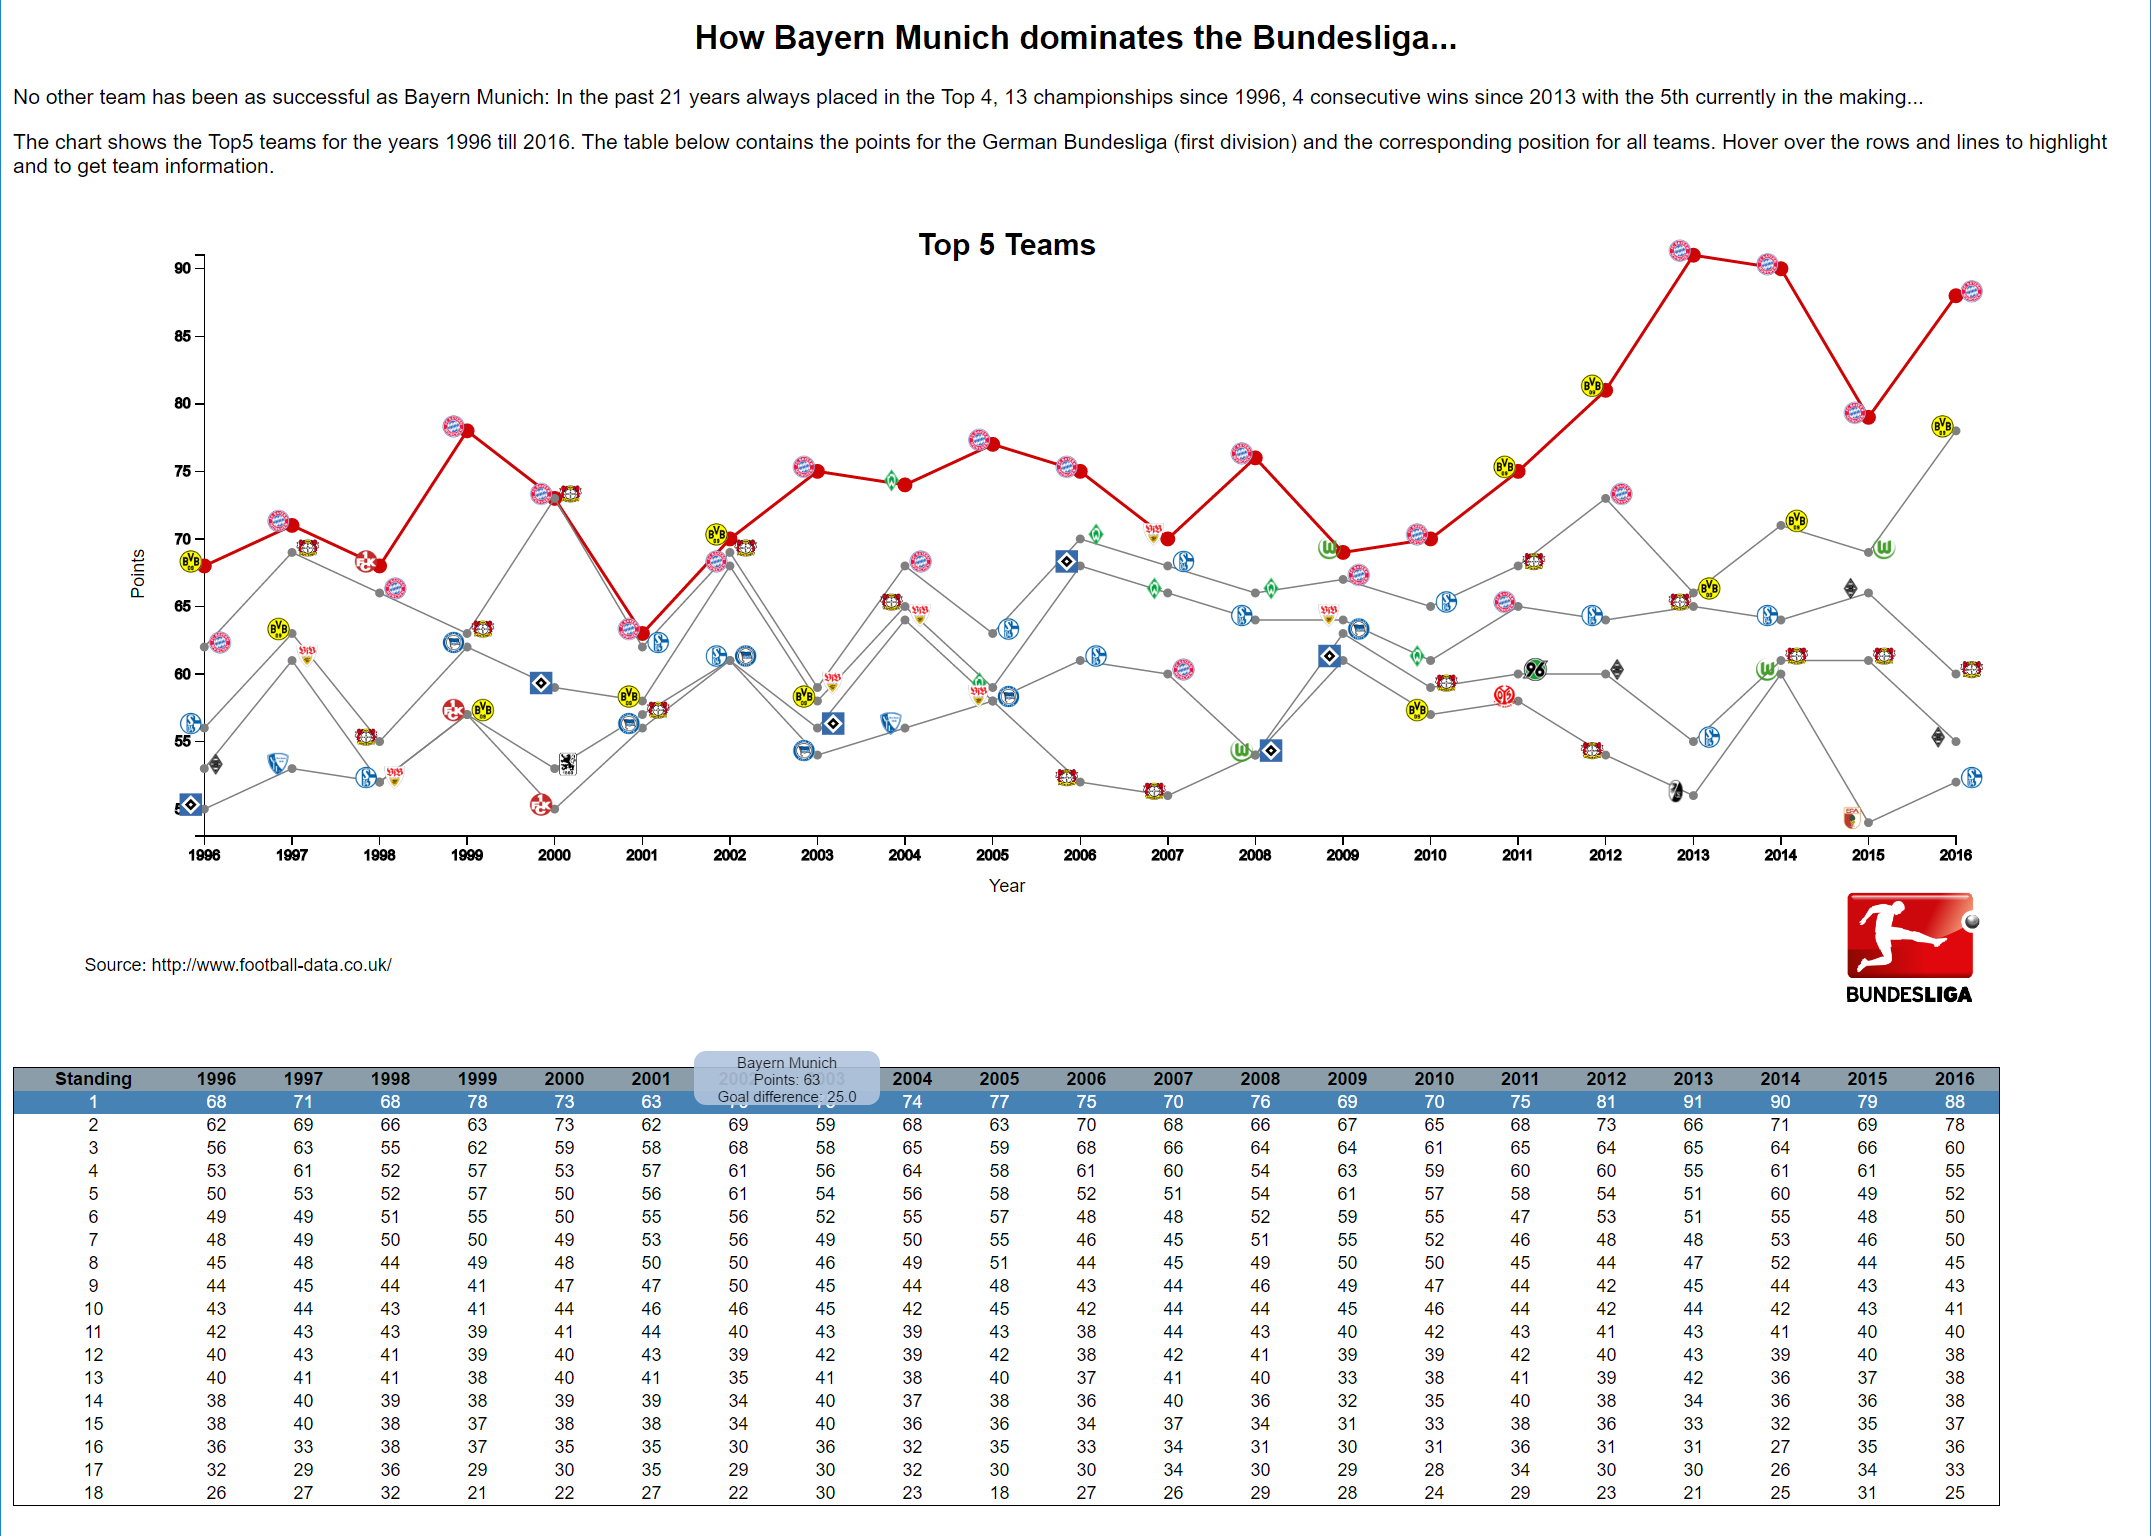
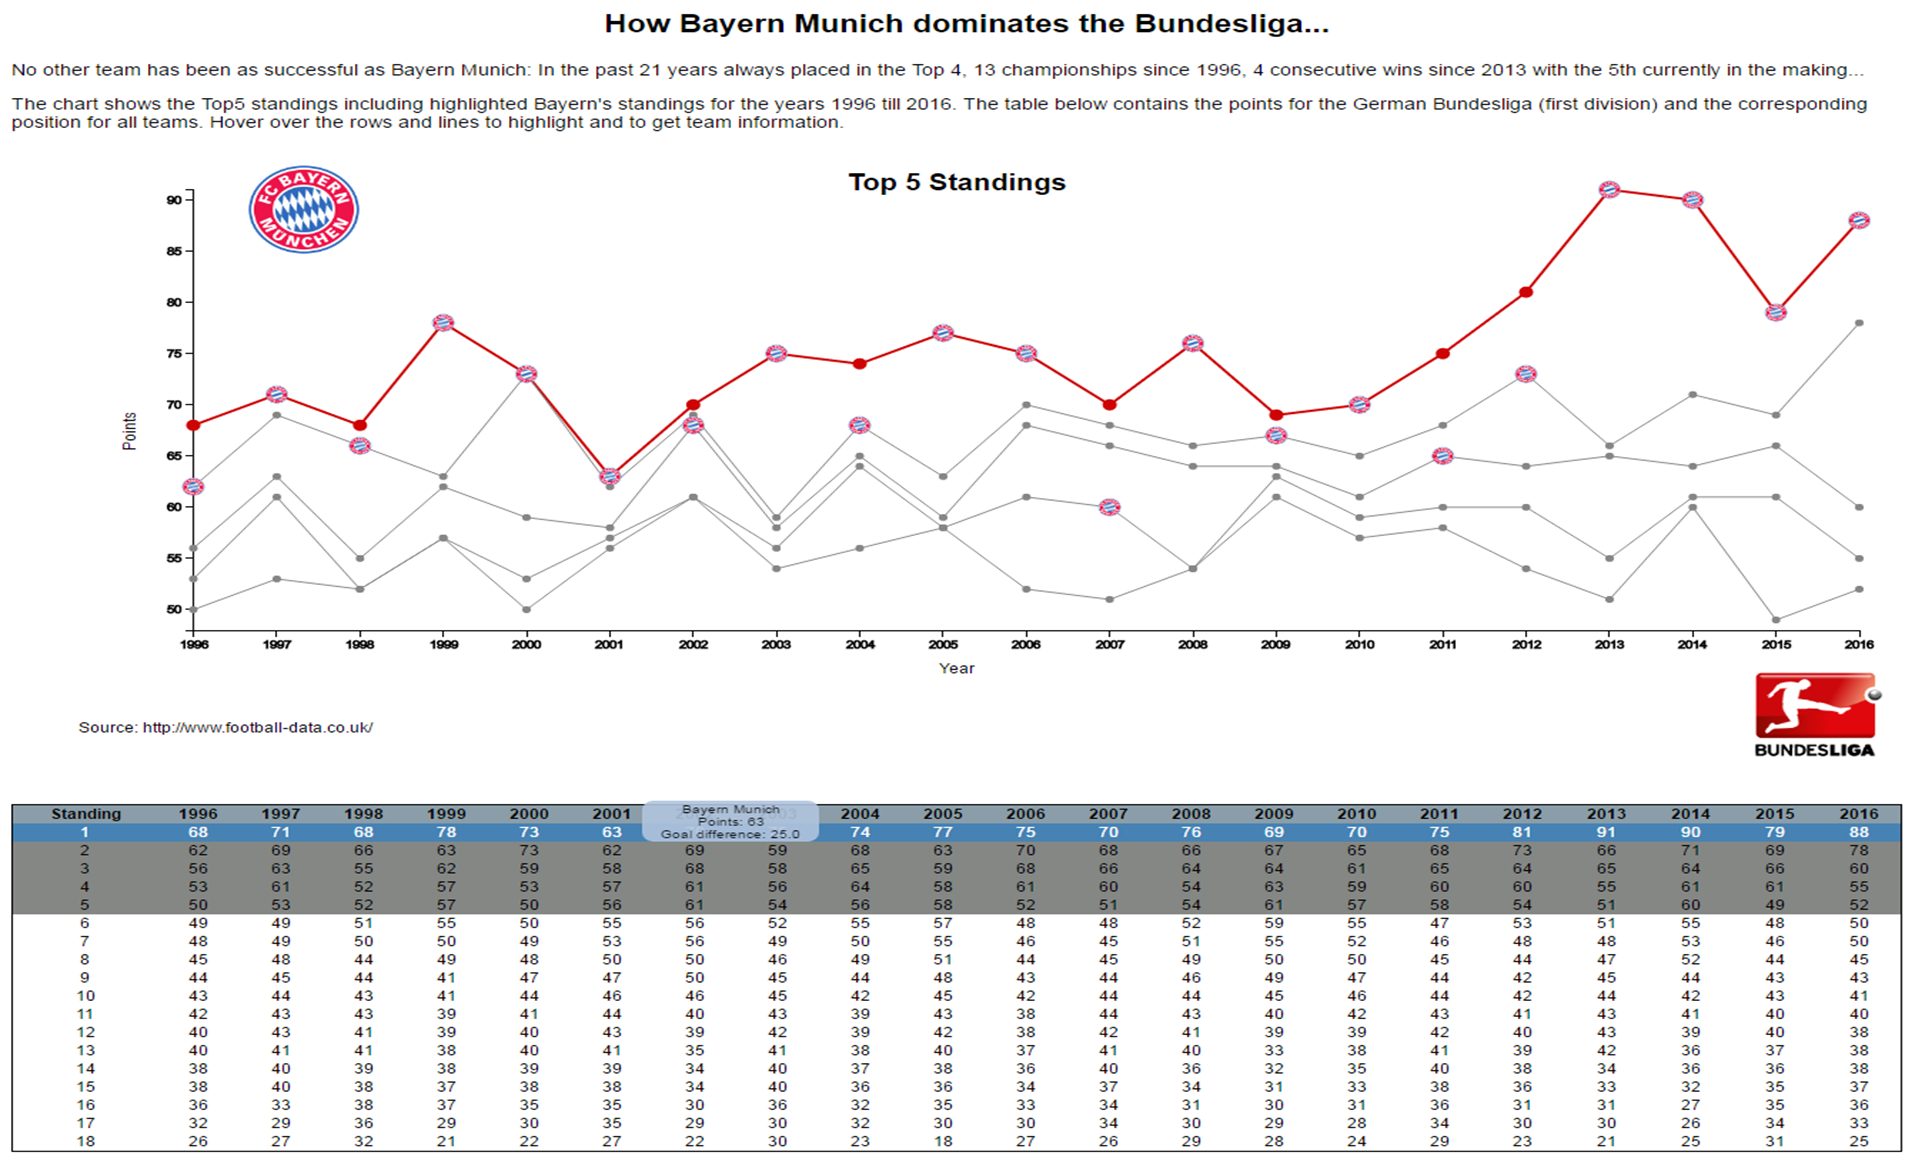
Files for third submission

diff --git a/index_version3.html b/index_version3.html
@@ -78,7 +78,7 @@
 			
 			d3.select('body')
 			  .append('p')
-			  .text('The chart shows the Top5 standings including highlighted Bayern\'s standings for the years 1996 till 2016. The table below contains the points for the German Bundesliga (first division) and the corresponding position for all teams. Hover over the rows and lines to highlight and to get team information.');
+			  .text('The chart shows the Top5 teams for the years 1996 till 2016. The table below contains the points for the German Bundesliga (first division) and the corresponding position for all teams. Hover over the rows and lines to highlight and to get team information.');
 			
 			// Define the div for the tooltip
 			var div = d3.select("body")
@@ -96,9 +96,7 @@
 				height = 500 - margin,
 				table_height = 300 - margin;
 			
-			var logo_width = 16;
-			
-			var line_color = "rgb(132, 135, 132";
+			var logo_width = 15;
 			
 			// create SVG
 			var svg = d3.select("body")
@@ -125,15 +123,6 @@
 						  .attr("x", width - 110)
 						  .attr("y", height+2*margin - 120);
 			
-			// Add Bayern Logo
-	        var imgBayern = svg.selectAll("image_logo")
-	                           .data([0])		
-							   .enter()
-							   .append("svg:image")
-							   .attr("xlink:href", "logos/Bayern Munich.png")
-							   .attr("width", 80)	
-							   .attr("x", 2.2*margin)
-							   .attr("y", .2*margin);
 			
 			//////////////////////////////////////////////////
 			// Helper functions
@@ -156,10 +145,10 @@
 			function tableRowClicked(x) {
 				var SelectedRow = x.key;
 				d3.selectAll('.line')
-				  .style('stroke', line_color)
+				  .style('stroke', 'gray')
 				  .style('stroke-width', 1);
 				d3.selectAll('circle')
-				  .style('fill', line_color)  
+				  .style('fill', 'gray')  
 				  .attr("r", 3);
 				  
 				d3.selectAll('path#St' + x.key)
@@ -168,26 +157,6 @@
 				d3.selectAll('circle#St' + x.key)
 				  .style('fill', 'rgb(206, 4, 4)')  
 				  .attr("r", 5);
-			};
-			
-			function resetColor(x) {
-					
-				d3.selectAll('.line')
-				  .style('stroke', line_color)
-				  .style('stroke-width', 1);
-				  
-				d3.selectAll('circle')
-				  .style('fill', line_color)  
-				  .attr("r", 3);
-					  
-				d3.selectAll('.standing_rows')
-				  .style("background", "white")
-				  .style("color", "black");
-				  
-				for (var i=1; i< 6; i+=1) {
-					d3.select('tr#St' + i.toString())
-					  .style("background", line_color)
-				};  
 			};
 	
 			//////////////////////////////////////////////////
@@ -280,7 +249,7 @@
 			  .style("text-anchor", "middle")
 			  .style("font-size", "20px")
 			  .style("font-weight", "bold")
-			  .text("Top 5 Standings");
+			  .text("Top 5 Teams");
 			
 			// Source text
 			d3.select("svg")
@@ -355,11 +324,20 @@
 				  .append('path')
 				  .attr("class", "line")
 				  .style('stroke-width', 1)
-				  .style('stroke', line_color)
 				  .attr('id', 'St'+ d.key)
 				  .attr('d', line(d.values))
 				  .on("mouseover", function(a) {
-				    resetColor(a);
+				    d3.selectAll('.line')
+					  .style('stroke', 'gray')
+				      .style('stroke-width', 1);
+				    
+					d3.selectAll('circle')
+					  .style('fill', 'gray')  
+				      .attr("r", 3);
+				  
+					d3.selectAll('.standing_rows')
+					  .style("background", "white")
+					  .style("color", "black");
 
 					d3.select(this)
 					  .style('stroke', 'rgb(206, 4, 4)')
@@ -376,8 +354,17 @@
 					  .style("color", "white");
 				  })
 				  .on("mouseout", function(a) {
-					resetColor(d);
-					div.style("opacity", 0);
+				    d3.selectAll('.line')
+					  .style('stroke', 'gray')
+				      .style('stroke-width', 1);
+				  
+					d3.selectAll('circle')
+					  .style('fill', 'gray')  
+				      .attr("r", 3);
+					  
+					d3.selectAll('.standing_rows')
+					  .style("background", "white")
+					  .style("color", "black");
 				  });
 			
 				// add circles
@@ -386,7 +373,7 @@
 				  .data(d.values)
 				  .enter()
 				  .append('circle')
-				  .style('fill', line_color)
+				  .style('fill', 'gray')
 				  .attr("r", 3)
 				  .attr("cx", function (a) { 
 					var format = d3.time.format('%Y');
@@ -399,7 +386,17 @@
 					   .style("left", (d3.event.pageX) + "px")		
 					   .style("top", (d3.event.pageY - 28) + "px");	
 					   
-					resetColor(d);
+					d3.selectAll('.line')
+					  .style('stroke', 'gray')
+				      .style('stroke-width', 1);
+				    
+					d3.selectAll('circle')
+					  .style('fill', 'gray')  
+				      .attr("r", 3);
+				  
+					d3.selectAll('.standing_rows')
+					  .style("background", "white")
+					  .style("color", "black");
 
 					var standing = this.id;
 					  
@@ -417,18 +414,26 @@
 					  .style("color", "white");   
 				  })					
 				  .on("mouseout", function(d) {		
-					resetColor(d);
 					div.style("opacity", 0);
+					
+					d3.selectAll('.line')
+					  .style('stroke', 'gray')
+				      .style('stroke-width', 1);
+				  
+					d3.selectAll('circle')
+					  .style('fill', 'gray')  
+				      .attr("r", 3);
+					  
+					d3.selectAll('.standing_rows')
+					  .style("background", "white")
+					  .style("color", "black");
 				  }); 
 				  
 			 }	  
 			});
 			
-			for (var i=1; i< 6; i+=1) {
-				d3.select('tr#St' + i.toString())
-				  .style("background", line_color)
-			};
-
+			// initialize counter to place team logos 
+			var posCounter = 1; 
 			
 			// add logos
 			nested.forEach(function(d,i) {
@@ -438,44 +443,20 @@
 				          .enter()
 						  .append("svg:image")
 						  .attr("xlink:href", function(a) {
-							if (a.teams === "Bayern Munich"){ 
-								return "logos/" + a.teams + ".png";
-							};
+							return "logos/" + a.teams + ".png";
 						  })
 						  .attr("height", logo_width)	
 						  .attr("x", function (a, i) { 
 							var format = d3.time.format('%Y');
-							return time_scale(format.parse(a['year']))-.5*logo_width; 
-							})
-						  .attr("y", function (a) { return point_scale(a['points'])-.5*logo_width; })
-						  .attr('id', 'St'+ d.key)
-						  .on("mouseover", function(d) {
-						  
-							div.style("opacity", .9);		
-							div.html(d.teams + "<br/>Points: "  + d.points + "<br/>Goal difference: "  + d.diff)	
-							   .style("left", (d3.event.pageX) + "px")		
-							   .style("top", (d3.event.pageY - 28) + "px");	
-					   
-							resetColor(d);
+							if (i == 20) 
+								{ posCounter+=1;};
 							
-							var standing = this.id;
-
-							d3.select('path#' + standing)
-							  .style('stroke', 'rgb(206, 4, 4)')
-							  .style('stroke-width', 2);
-					
-							d3.selectAll('circle#' + standing)
-							  .style('fill', 'rgb(206, 4, 4)')  
-							  .attr("r", 5);
-					  
-							d3.select('tr#' + standing)
-							  .style("background", "steelBlue")
-							  .style("color", "white");   
-							})					
-						  .on("mouseout", function(d) {		
-							resetColor(d);
-							div.style("opacity", 0);
-						  });
+							if (posCounter == 1 || posCounter == 3 || posCounter == 5) {
+								return time_scale(format.parse(a['year']))-1.1*logo_width; 
+							} else {
+								return time_scale(format.parse(a['year']))+.2*logo_width;
+							};})
+						  .attr("y", function (a) { return point_scale(a['points'])-.7*logo_width; });
 				};
 			});
 						
@@ -484,12 +465,7 @@
 						d3.selectAll(".standing_rows")
 						  .style("background", "white")
 						  .style("color", "black");
-						
-						for (var i=1; i< 6; i+=1) {
-							d3.select('tr#St' + i.toString())
-							.style("background", line_color)
-						};
-						
+						  
 						tableRowClicked(d);  
 						
 						d3.select(this)
@@ -498,7 +474,16 @@
 			});
 			
 			rows.on("mouseout", function(d) {
-				resetColor(d);
+						d3.selectAll(".standing_rows")
+						  .style("background", "white")
+						  .style("color", "black");
+						
+						d3.selectAll('.line')
+						  .style('stroke', 'gray')
+						  .style('stroke-width', 1);
+						d3.selectAll('circle')
+						  .style('fill', 'gray')  
+						  .attr("r", 3);						
 			});
 			
 			

diff --git a/README.md b/README.md
@@ -108,7 +108,7 @@ version. After the feedback however I decided to put it in the final version des
 
 The corresponding file is **`index_version2.html`**.
 
-### Final Version
+### Third Version
 
 After the first submission (see feedback below) I modified the visualization as follows: Firstly, I changed the header and the description to highlight that it
 is actually only one team that really dominates the Bundesliga, namely Bayern Munich. This is emphasized by the introductory text that summarizes quickly Bayern's 
@@ -121,7 +121,23 @@ The table at the bottom allows the reader to explore more details about other te
 
 ![alt text][logo4]
 
-[logo4]: final_chart.png "Final version"
+[logo4]: third_chart.png "Final version"
+
+The corresponding file is **`index_version3.html`**.
+
+### Final Version
+
+The feedback from the second review was that the visualization was potentially confusing (see details in the feedback section). I therefore changed the title of the line chart to **Top 5 Standings** instead of **Top 5 Teams**,
+as this is what is actually displayed.
+
+Also, as the message is how Bayern Munich dominates the Bundesliga, only Bayern's logo is now displayed at its corresponding standings. This allows seeing immediately where Bayern was placed in the past 21 years. To make sure that
+everyone understand what this logo means, I have added it on top of the line chart big enough to see what it represents.
+
+Lastly, as only the first 5 standings are displayed the corresponding rows of the table are highlighted in the same color as the lines.
+
+![alt text][logo5]
+
+[logo5]: third_chart.png "Final version"
 
 The corresponding file is **`index.html`**.
 
@@ -197,6 +213,19 @@ suitable for an exploratory visualization.
 Considering the goal is to "to show the growing gap between a handful of top teams and the remaining teams and the domination of a few teams.", as described on the readme, more specific advices:
 * The goal is to show dominance of top teams, but the team information is hiding in a tooltip, with no other visual encoding. The visual encoding hierarchy should follow the importance of each variable for the visualization message - since team is very important, it should be high up in the hierarchy. As a suggestion, if you want to show 2 or 3 teams dominated in the last year, add a small logo of the team above or below the dot in the first 3 lines. This way it will be easier to visualize if a particular team or groups teams have dominated the last years. This is just a suggestion, any other visual encoding will do fine as well.
 * The visualization is too cluttered, it feels overplotted. Since you are aiming to show dominance in the top position, you can focus on the top standings. The lower part of the visualization, around the 11th standing to the bottom, doesn't add a lot to the message.
+
+### Feedback Second Submission:
+
+You've made some excellent design choices so far. I love the chart choices, the interactivity between the chart, the logo icons and all your clear, accessible labels. Fabulous.
+
+However, I think currently your graphic is potentially very confusing. It took me about 10 minutes of looking at the chart, the README file and Googling football team logos to understand what is going on. 
+Obviously I am not a football fan!
+
+My conclusion is the main problem is a disconnect between the title - Top 5 Teams - and the line chart. From the title, I automatically assumed that each line was a team so I was trying to work out what the 
+logos meant and whether some of them were in the wrong position. There are in fact logos for 12 teams (possibly more if I've missed one) on the line chart! I have now worked out that the lines 
+represent the positions or standings!
+
+Your main message is How Bayern Munich dominates the Bundesliga.... You need to make sure your charts tell this story loud and clear.
 
 ## Resources
 
